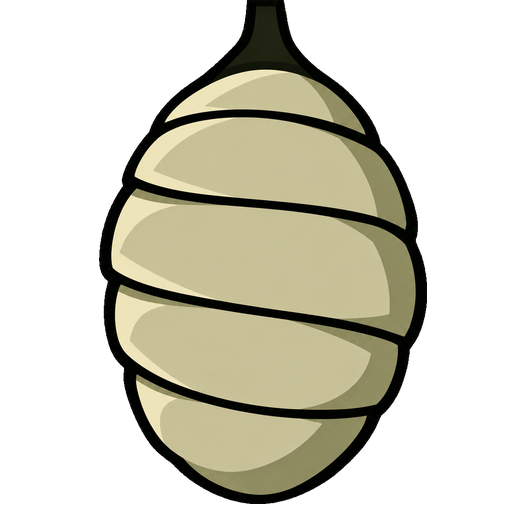
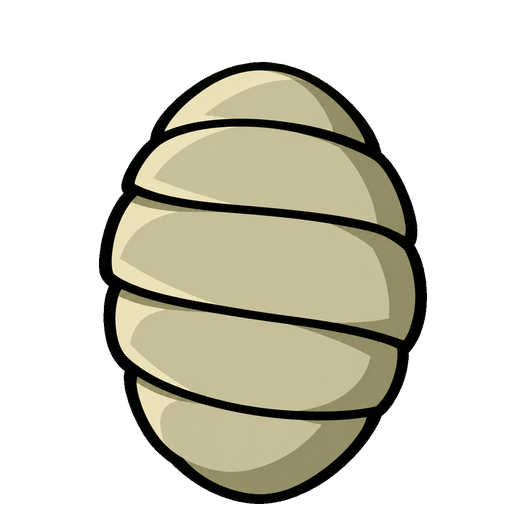
Remove stems from cocoon sprites

diff --git a/.scratch/cocoon-stem-removal/prepare.py b/.scratch/cocoon-stem-removal/prepare.py
@@ -1,0 +1,45 @@
+"""Remove generated mattes and register stemless cocoons at the existing bases."""
+
+import hashlib
+import importlib.util
+import json
+from pathlib import Path
+
+from PIL import Image
+
+HERE = Path(__file__).resolve().parent
+ROOT = HERE.parents[1]
+helper_spec = importlib.util.spec_from_file_location(
+    "cocoon_art_helpers", HERE.parent / "cocoon-projectile-art-pass/prepare.py")
+helpers = importlib.util.module_from_spec(helper_spec)
+helper_spec.loader.exec_module(helpers)
+
+reports = []
+for name in ("cocoon", "cocoon_open"):
+    before = Image.open(HERE / "before" / f"{name}.png").convert("RGBA")
+    source = Image.open(HERE / "source" / f"{name}.png")
+    # Background cleanup was explicitly authorized earlier in this conversation.
+    cutout = helpers.cutout(source, 1)
+    helpers.save(cutout, HERE / f"{name}_cutout.png")
+    old_bounds = before.getchannel("A").getbbox()
+    # Preserve the body width and base; leave the former stem area empty.
+    bounds = (old_bounds[0], 62, old_bounds[2], old_bounds[3])
+    x0, y0, x1, y1 = bounds
+    sprite = cutout.crop(cutout.getchannel("A").getbbox()).resize(
+        (x1 - x0, y1 - y0), Image.Resampling.LANCZOS)
+    final = Image.new("RGBA", before.size)
+    final.paste(sprite, (x0, y0))
+    assert final.size == before.size == (512, 512)
+    assert final.getchannel("A").getbbox() == bounds
+    assert final.getchannel("A").getextrema() == (0, 255)
+    assert final.crop((0, 0, 512, 62)).getchannel("A").getbbox() is None
+    target = ROOT / "assets/base/pupation" / f"{name}.png"
+    helpers.save(final, target)
+    reports.append({
+        "path": str(target.relative_to(ROOT)), "size": final.size,
+        "previous_bounds": old_bounds, "bounds": bounds,
+        "stem_area_transparent": True, "alpha_range": [0, 255],
+        "sha256": hashlib.sha256(target.read_bytes()).hexdigest(),
+    })
+(HERE / "validation.json").write_text(json.dumps(reports, indent=2) + "\n")
+print(json.dumps(reports))

diff --git a/.scratch/cocoon-stem-removal/README.md b/.scratch/cocoon-stem-removal/README.md
@@ -1,0 +1,19 @@
+# Stemless cocoons
+
+Removed the top stems from both `assets/base/pupation/cocoon.png` and
+`assets/base/pupation/cocoon_open.png`, replacing them with rounded crowns.
+The closed and open states retain the same 512 × 512 canvases, body widths,
+and bottom alignment. Their new shared bounds are `(99, 62, 427, 504)`; the
+former stem area is transparent. No runtime scene or script changed.
+
+The built-in `image_gen` tool produced both edits. Exact prompts and source
+locations are in `prompts.json`; generated sources and before images are saved
+alongside it. `prepare.py` reuses the preceding cocoon art pass's authorized
+background-cleanup helpers, then aligns the stemless bodies without stretching
+them upward into the removed stem area. It requires Pillow and NumPy.
+
+Godot 4.7 import and preview rendering passed. `preview.png` was visually
+checked enlarged and at the actual 128 × 128 cocoon-slot image size. Dimensions,
+matching bounds, transparency, and empty stem regions are verified in
+`validation.json`. The preview exited zero; the previously observed OpenGL
+texture-cleanup warnings still occur at shutdown.
